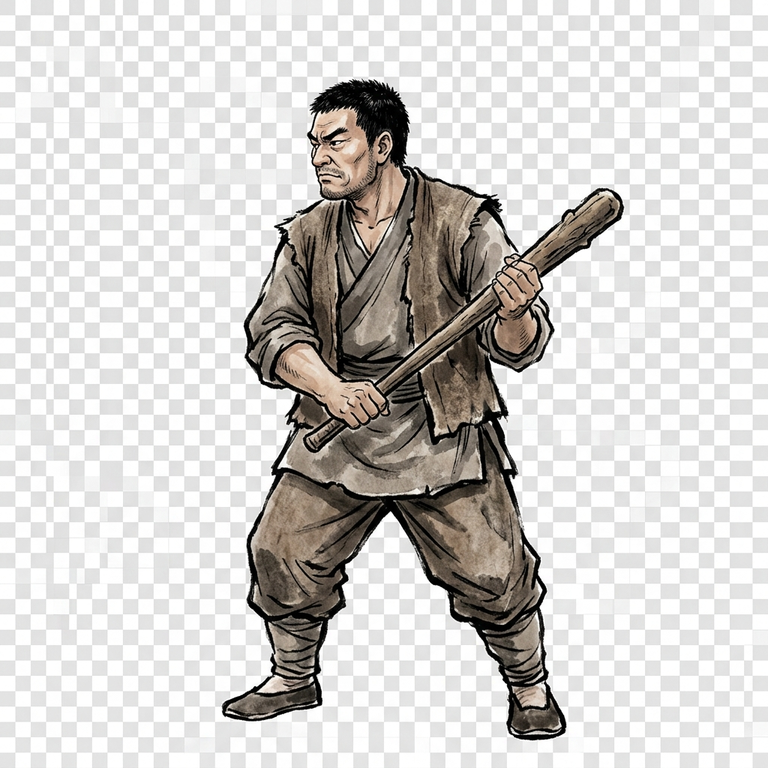
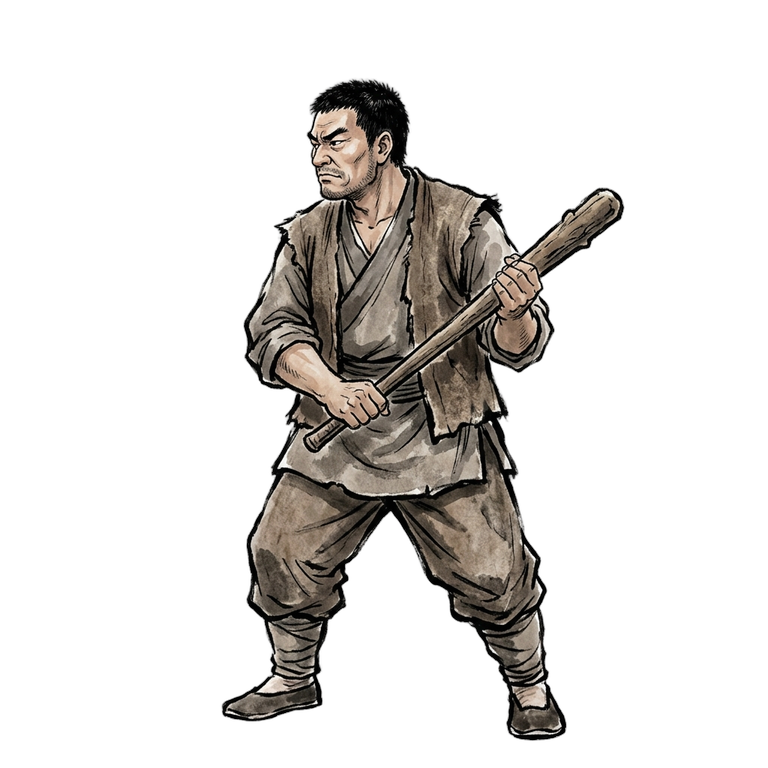
art(enemies): 15 張敵人肖像重新去背（birefnet）
原本 15 張敵人圖背景（棋盤格/灰底）被烤進不透明像素（假透明），戰鬥中身後會出現
灰方塊。用 BgRemover/rembg 比較 isnet-general-use / u2net / birefnet-general 三模型後，
選 birefnet-general（邊緣最乾淨、無灰 halo、水墨細節保留最佳）重新去背為 RGBA 透明：

thug / thief / tree_demon / turtle_demon / flower_spirit / xing_tian / bee_cocoon /
grass_sprite / leaf_sprite / octopus_imp / clam_spirit / conch_maiden / miao_maiden /
black_impermanence / white_impermanence。

逐張肉眼檢視（含白袍白無常、花藤花妖、鎖鏈黑無常等難例）邊緣皆乾淨。已重新 import。
ART_TODO 第十二節標記完成。

diff --git a/ART_TODO.md b/ART_TODO.md
@@ -1,6 +1,6 @@
 # 卡圖待補清單
 
-最後更新：2026-06-10（新增第十一節 Boss 劇情圖 9 張；第十二節：盤點出 15 張敵人肖像未真正去背、待重做）
+最後更新：2026-06-10（新增第十一節 Boss 劇情圖 9 張待補；第十二節：15 張敵人肖像已用 birefnet 重新去背完成）
 
 ---
 
@@ -439,13 +439,13 @@
 
 ---
 
-## 十二、敵人肖像未去背待處理（🔴 15 張，2026-06-10 盤點）
+## 十二、敵人肖像去背修正（🟢 15 張已完成，2026-06-10）
 
-下列敵人肖像**沒有真正的透明背景**——背景（棋盤格／灰底）被烤進不透明像素
-（四角 alpha=255、透明像素 0%）。戰鬥中 `ground_portrait` 會把整張矩形連灰底畫出來，
-敵人身後出現一塊灰方塊。需重新去背成 RGBA 透明（主體保留、背景清成 alpha=0）。
-
-工具：`C:\Users\sean.wu\source\repos\BgRemover`。去背後存回原路徑 `assets/art/enemies/<id>.png` 再 `--import`。
+下列敵人肖像原本**沒有真正的透明背景**——背景（棋盤格／灰底）被烤進不透明像素
+（四角 alpha=255、透明像素 0%），戰鬥中 `ground_portrait` 會把整張矩形連灰底畫出、
+敵人身後出現灰方塊。**已用 BgRemover（rembg `birefnet-general` 模型）重新去背**為 RGBA 透明，
+覆蓋回 `assets/art/enemies/<id>.png` 並重新 import。模型比較（isnet-general-use / u2net /
+birefnet-general）後選 birefnet——邊緣最乾淨、無灰色 halo、水墨細節（花藤/鎖鏈/白袍）保留最好。
 
 | 檔名 | 敵人 |
 |---|---|
